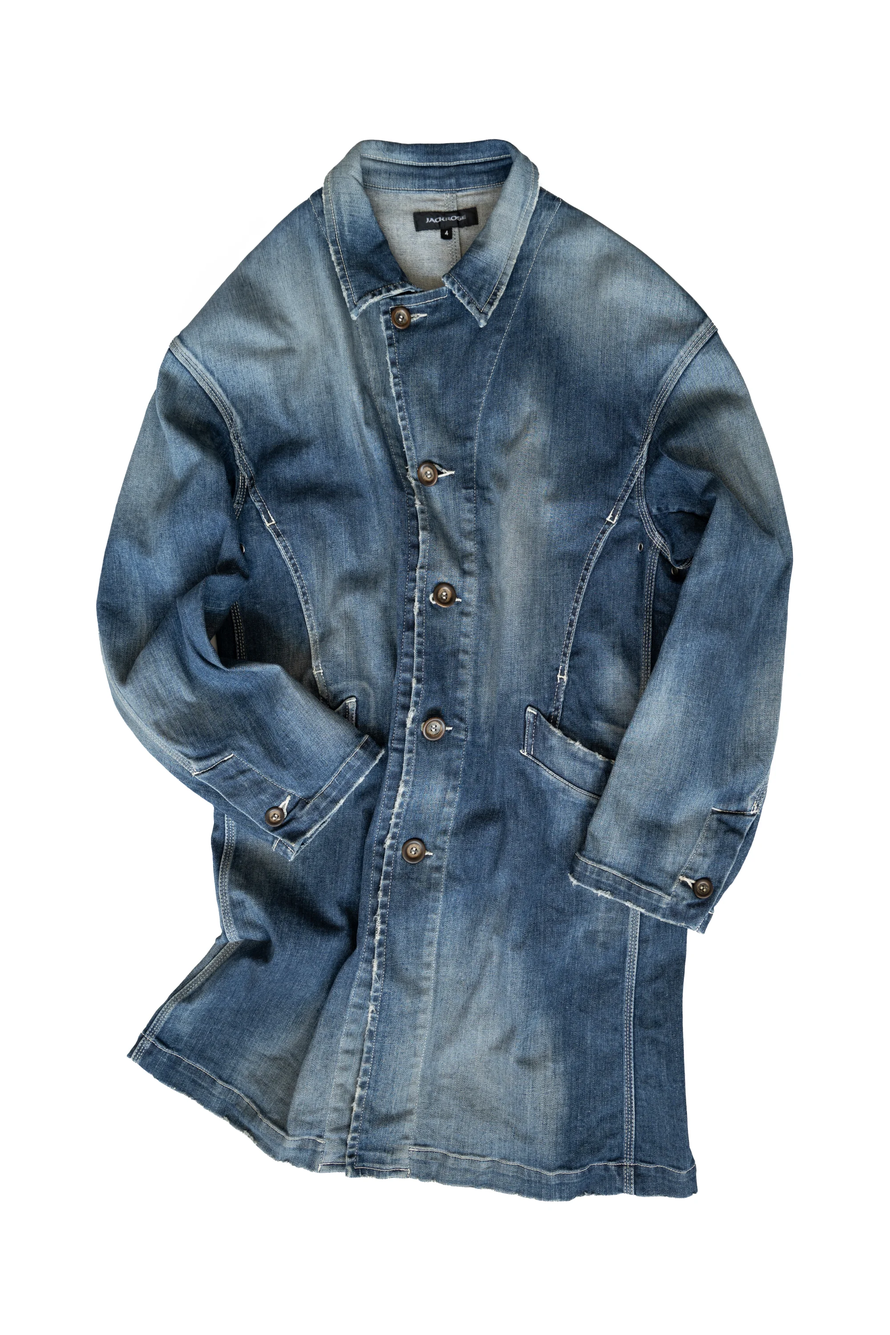
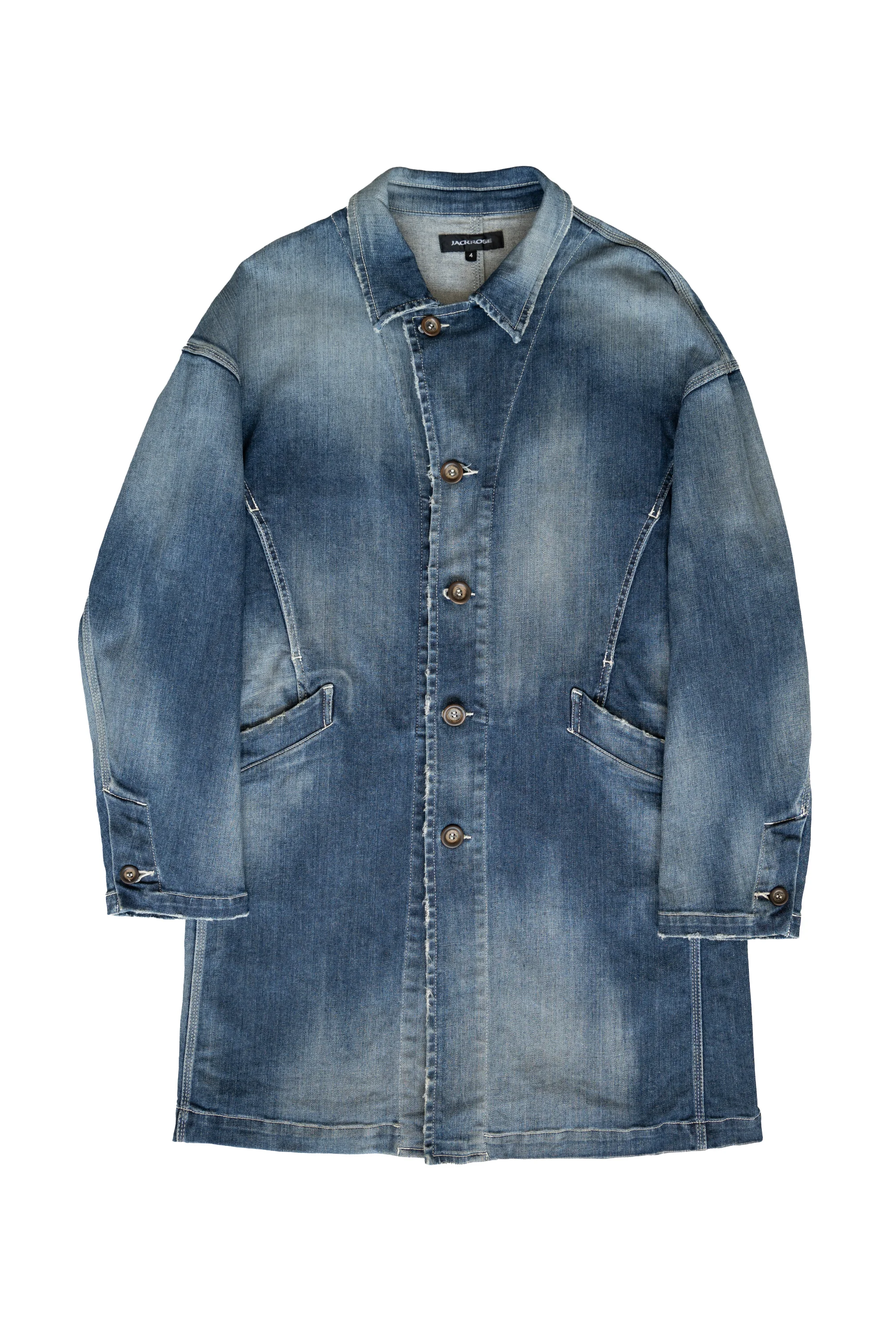
Поменяны местами 1 и 2 фото в Chimala, Diet_butcher_slim_skin, Jackrose_blue_made_in_Japan; синхронизирован public/cloth

diff --git a/src/components/ProductGrid.tsx b/src/components/ProductGrid.tsx
@@ -2,11 +2,38 @@ import { memo, useEffect, useRef, useCallback, useState } from "react";
 import ProductTile from "./ProductTile";
 import { useProducts } from "@/hooks/useProducts";
 
+const TILE_WIDTH_PCT = 22;
+const TILE_HEIGHT_PCT = 28;
+
 function getRandomPosition(): { x: number; y: number } {
   return {
-    x: Math.random() * 80,
-    y: Math.random() * 80,
+    x: Math.random() * (100 - TILE_WIDTH_PCT),
+    y: Math.random() * (100 - TILE_HEIGHT_PCT),
   };
+}
+
+function rectanglesOverlap(
+  a: { x: number; y: number },
+  b: { x: number; y: number }
+): boolean {
+  return !(
+    a.x + TILE_WIDTH_PCT <= b.x ||
+    b.x + TILE_WIDTH_PCT <= a.x ||
+    a.y + TILE_HEIGHT_PCT <= b.y ||
+    b.y + TILE_HEIGHT_PCT <= a.y
+  );
+}
+
+function getRandomNonOverlappingPosition(
+  existing: Record<string, { x: number; y: number }>
+): { x: number; y: number } {
+  const list = Object.values(existing);
+  for (let attempt = 0; attempt < 200; attempt++) {
+    const pos = getRandomPosition();
+    const overlaps = list.some((other) => rectanglesOverlap(pos, other));
+    if (!overlaps) return pos;
+  }
+  return getRandomPosition();
 }
 
 const ProductGrid = memo(() => {
@@ -14,7 +41,7 @@ const ProductGrid = memo(() => {
   const containerRef = useRef<HTMLElement>(null);
   const [positions, setPositions] = useState<Record<string, { x: number; y: number }>>({});
 
-  // При загрузке и при появлении новых товаров назначаем случайные позиции
+  // При загрузке и при появлении новых товаров назначаем случайные позиции без наложения
   useEffect(() => {
     setPositions((prev) => {
       let next = { ...prev };
@@ -22,7 +49,7 @@ const ProductGrid = memo(() => {
       products.forEach((product) => {
         const sid = String(product.id);
         if (next[sid] == null) {
-          next[sid] = getRandomPosition();
+          next[sid] = getRandomNonOverlappingPosition(next);
           changed = true;
         }
       });
@@ -95,14 +122,13 @@ const ProductGrid = memo(() => {
   return (
     <section
       id="shop"
-      ref={containerRef}
       className="scroll-mt-20 relative z-30 px-4 md:px-8 lg:px-[30px] pb-0 overflow-visible"
       style={{
         backgroundColor: "transparent",
         minHeight: "180vh",
       }}
     >
-      <div className="relative w-full h-full" style={{ minHeight: "160vh" }}>
+      <div ref={containerRef} className="relative w-full h-full" style={{ minHeight: "160vh" }}>
         {products.map((product, index) => {
           const pos = positions[String(product.id)];
           if (pos == null) return null;
